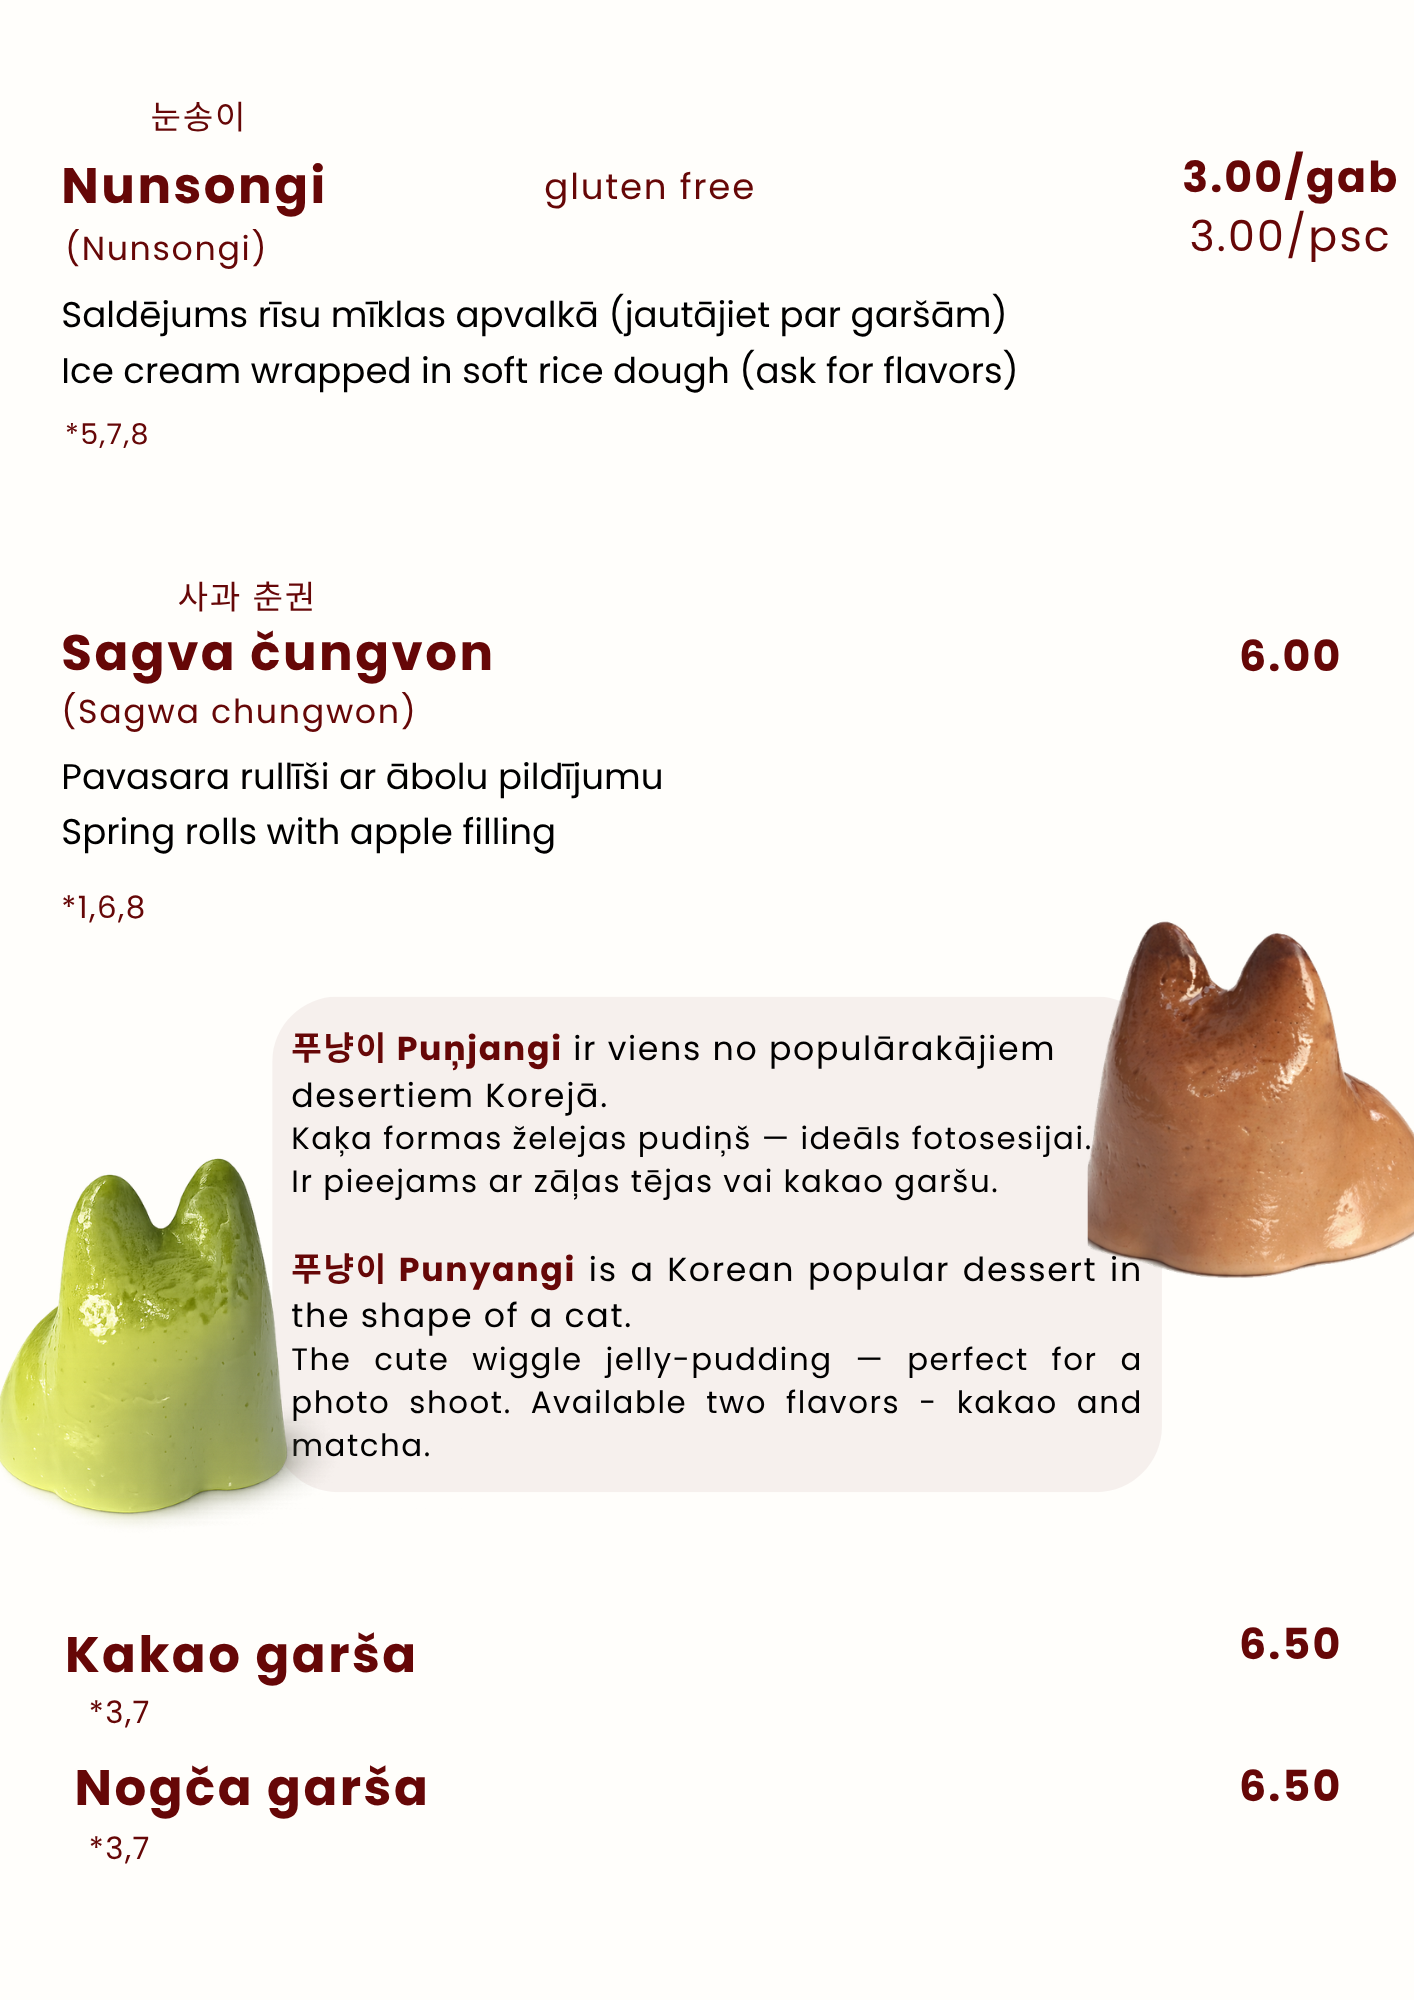
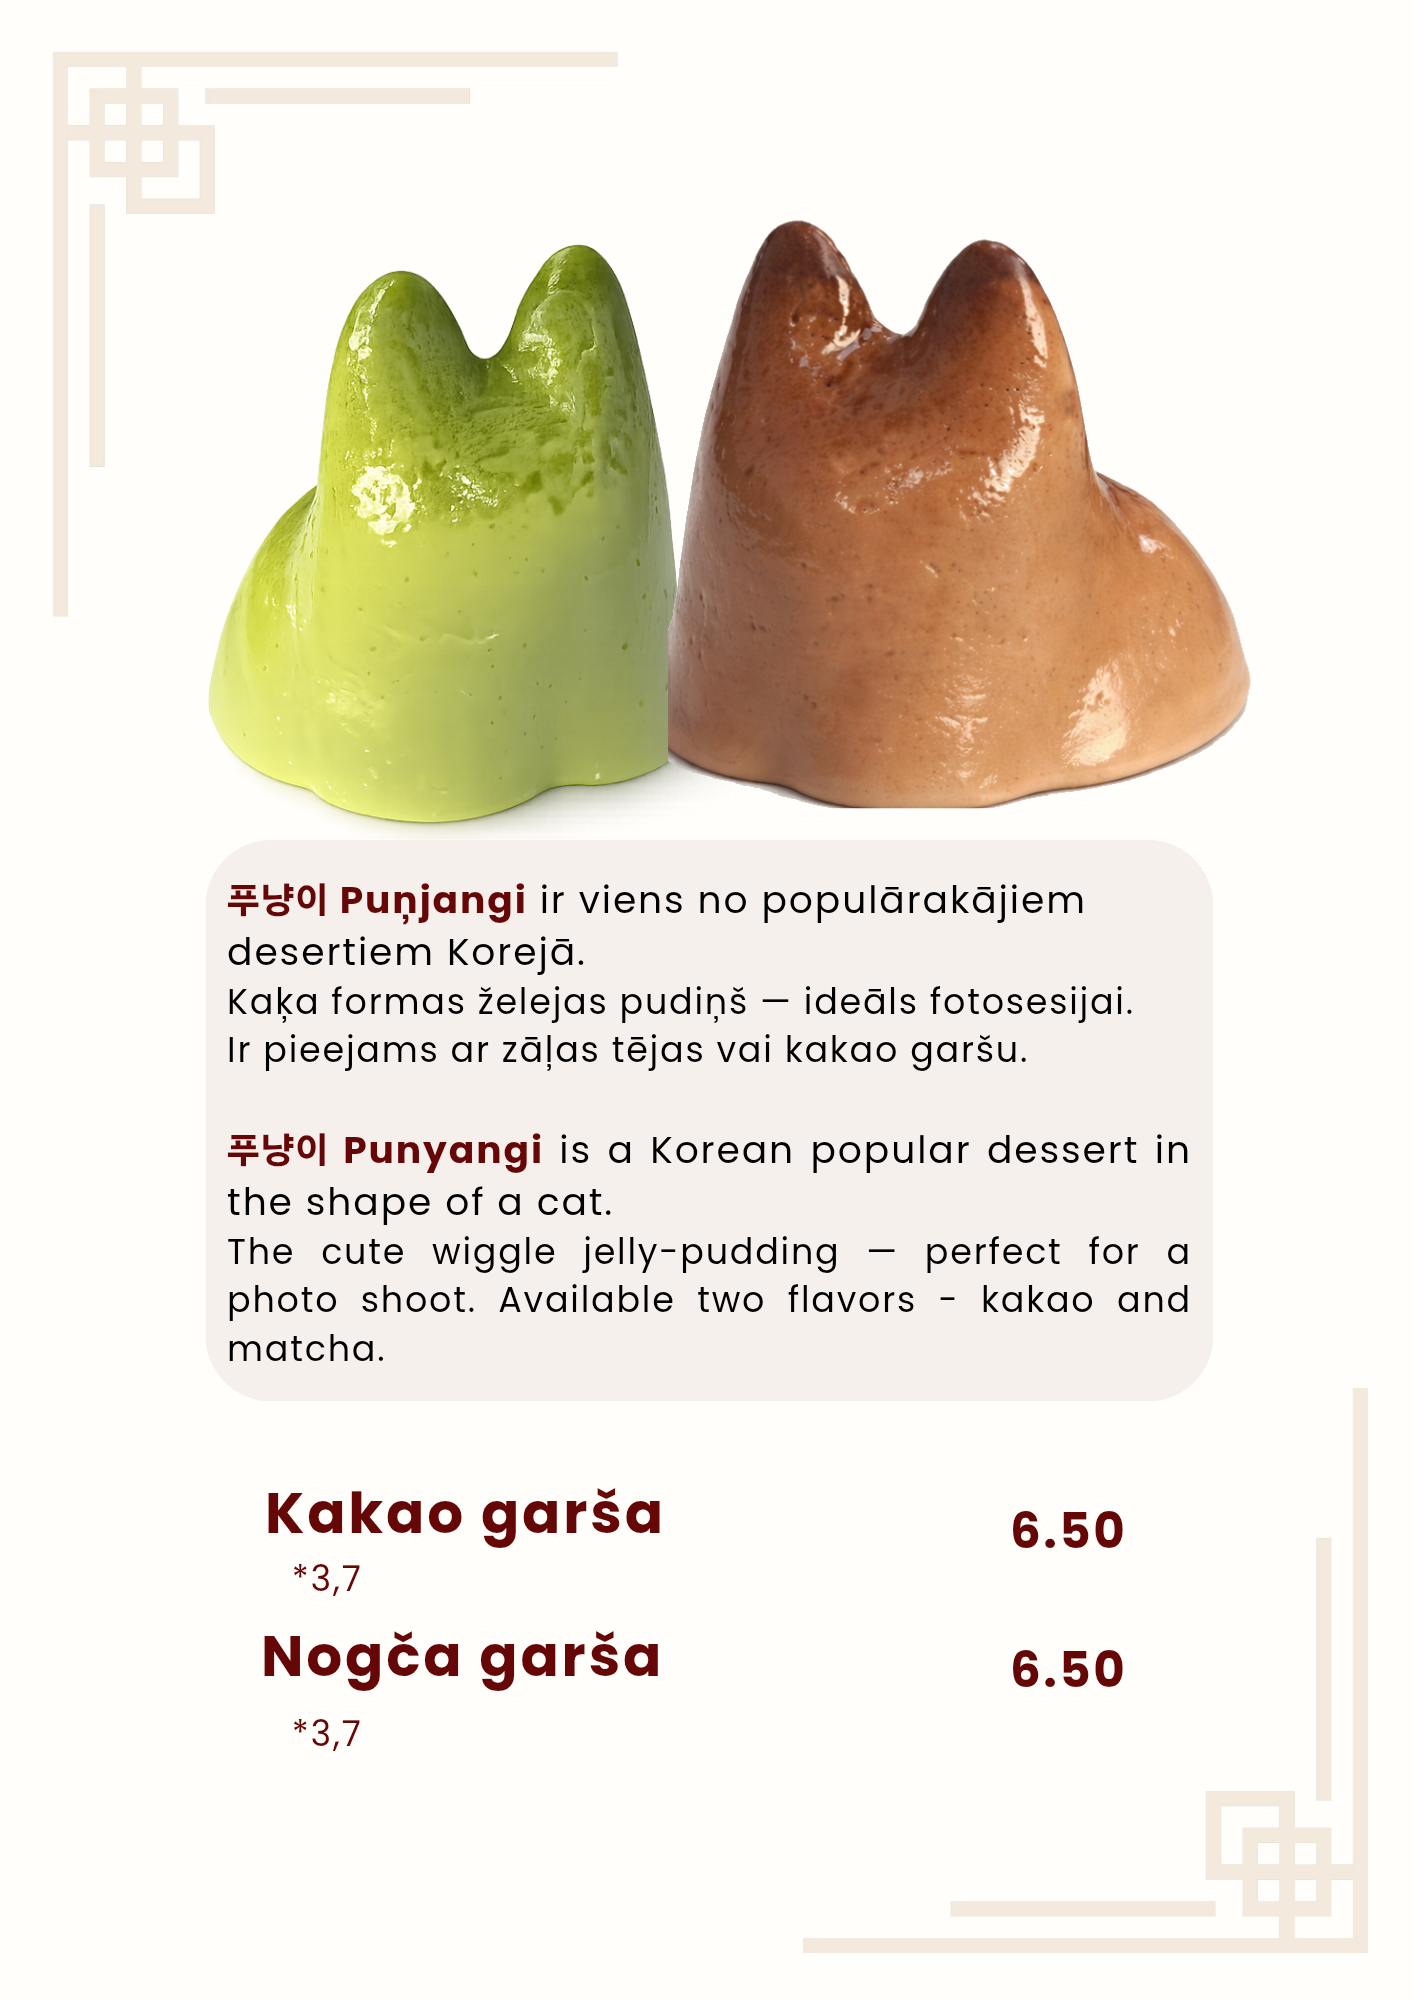
desserts edited, autumn drinks added

diff --git a/index.html b/index.html
@@ -31,7 +31,7 @@
   <img class="menu-image" src="1.png" alt="Menu Page 1">
   <img class="menu-image" src="2.png" alt="Menu Page 2">
   <!--<img class="menu-image" src="special new offer.png" alt="Menu Page New">-->
-  <img class="menu-image" src="new1.png" alt="Menu Page New">
+  <img class="menu-image" src="autumn special drinks.png" alt="Menu Page New">
   <!-- <img class="menu-image" src="chuseok menu.png" alt="Menu page New"> -->
   <img class="menu-image" src="lunch1.png" alt="Menu Page Lunch">
   <img class="menu-image" src="lunch.png" alt="Menu Page Lunch">
